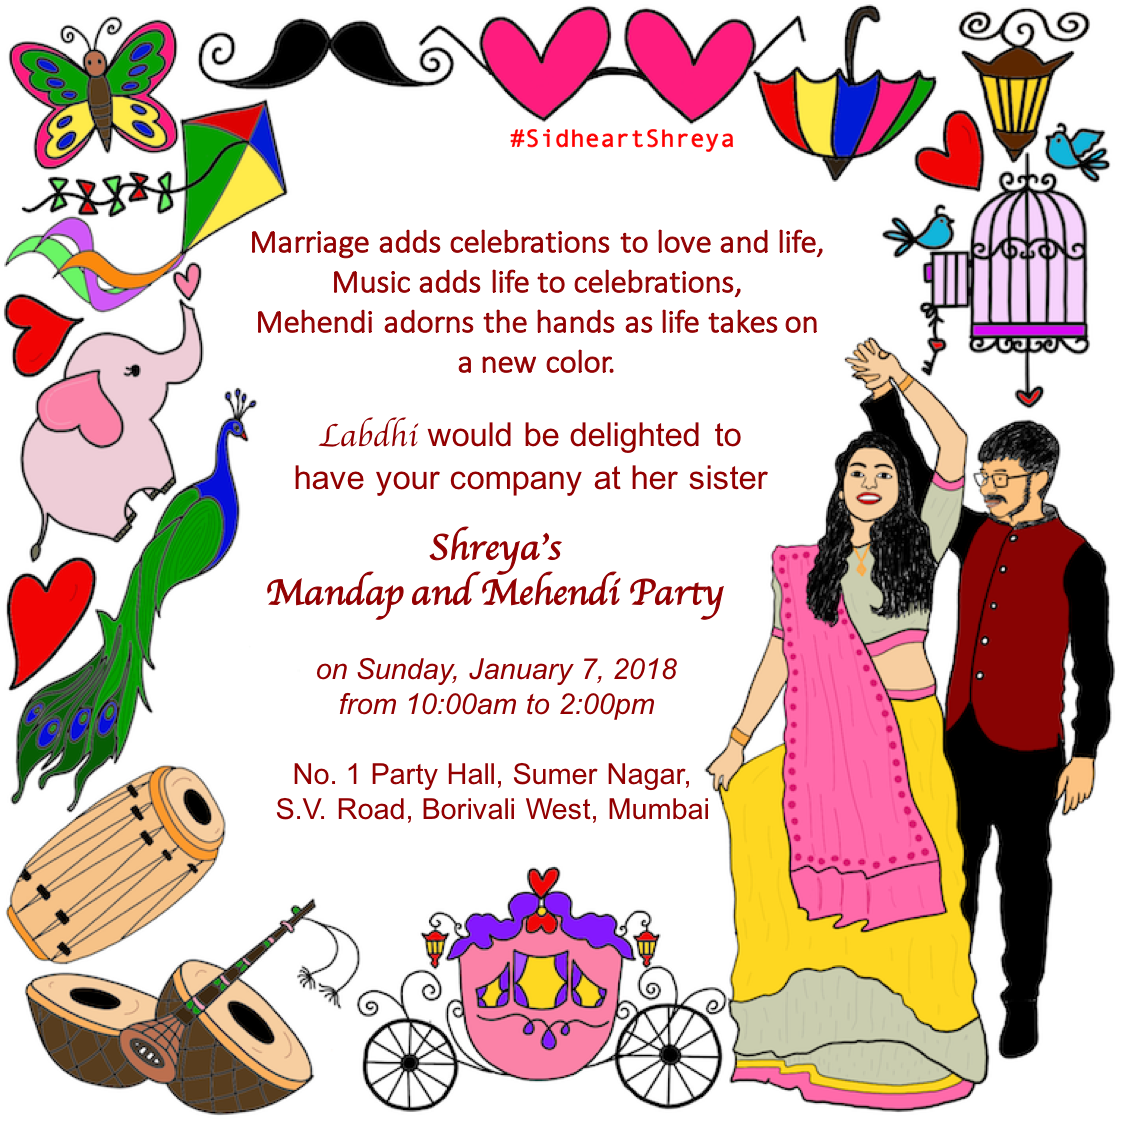
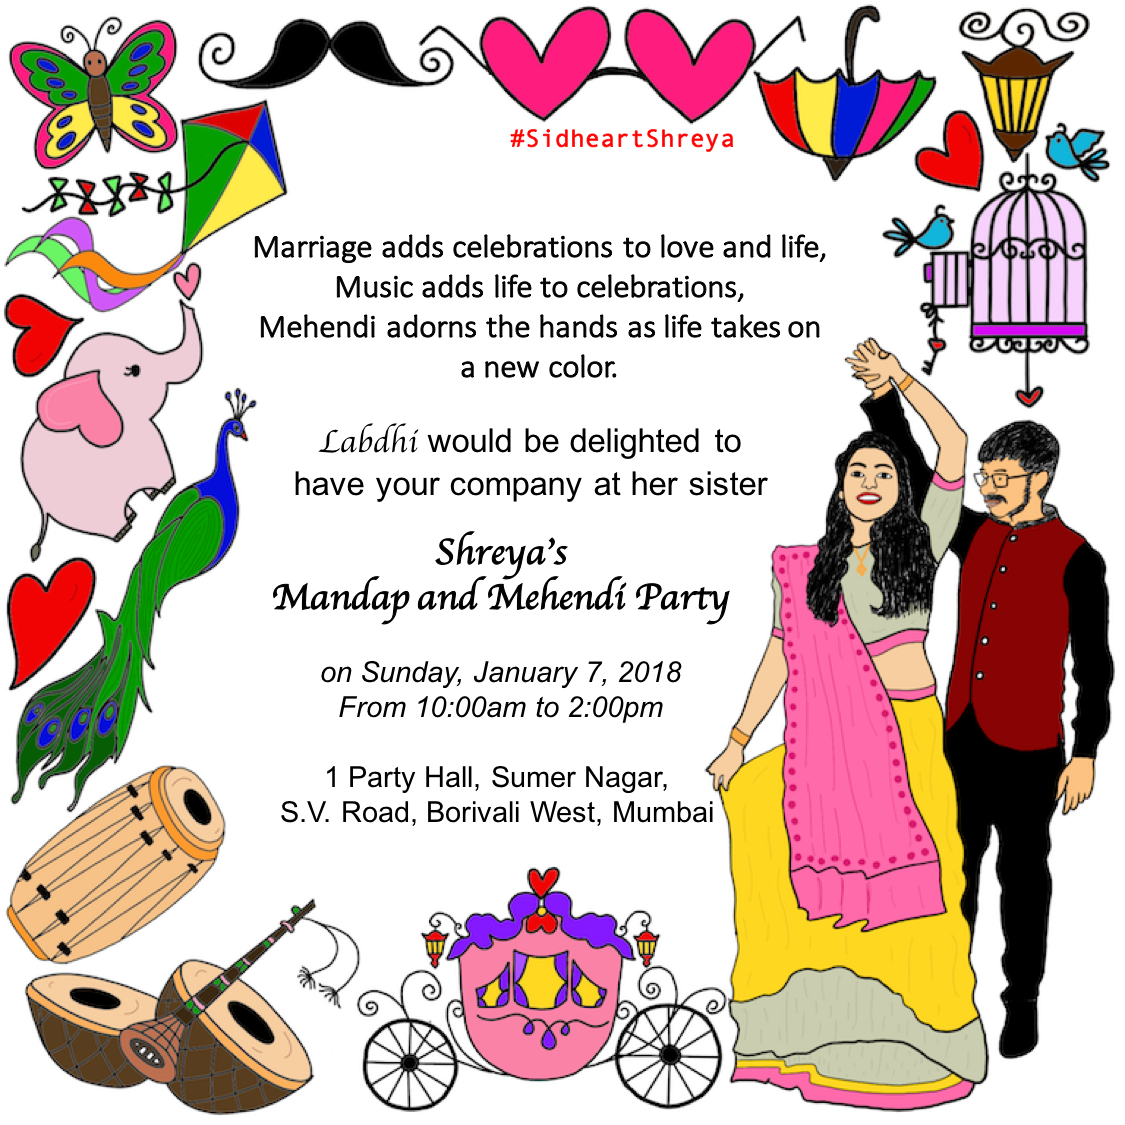
update addresses

diff --git a/bigday/templates/partials/gifts.html b/bigday/templates/partials/gifts.html
@@ -15,9 +15,9 @@
                 opportunity to make a difference, however small that might be, in the lives of the lesser
                 privileged.
             </p>
-            <p class="text-justify">Shreya's father has been associated with a charity group that provides at-home
+            <p class="text-justify">Shreya's father has been associated with a charity group(Shree Vardhman Yuvak Mandal,Borivali) that provides at-home
                 medical equipment at
-                marginal rates for patients/families who cannot afford these. This aid relieves them of the
+                zero rent for patients/families who cannot afford these. This aid relieves them of the
                 financial stress at a time when they are already battling extremely painful medical situations.</p>
         </div>
         <div class="col-lg-6 col-sm-6">
